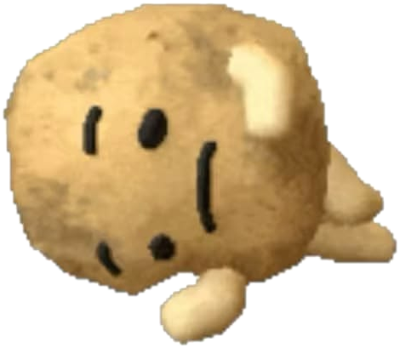
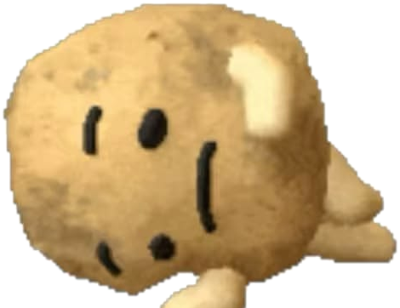
Potato rests on the roof, remove flyer, glowing neon sign, laugh category is photos only
Claude-Session: https://claude.ai/code/session_017PaBnN8AfWxPJyBcQfRLgQ

diff --git a/src/data/items.ts b/src/data/items.ts
@@ -24,7 +24,7 @@ export interface Item {
 
 export const CATEGORIES: Category[] = [
   { id: 'A', code: 'A01', label: 'A little reassurance', quip: 'Checking inventory of small comforts.', art: 'jar' },
-  { id: 'B', code: 'B02', label: 'Something to laugh at', quip: 'Humour is stocked on the second shelf.', art: 'frog' },
+  { id: 'B', code: 'B02', label: 'Something to laugh at', quip: 'Humour is stocked on the second shelf.', art: 'dumpling' },
   { id: 'C', code: 'C03', label: 'A reason to look forward to tomorrow', quip: 'Tomorrow has been notified.', art: 'ticket' },
   { id: 'D', code: 'D04', label: 'To feel understood', quip: 'I will do my best. I am a vending machine.', art: 'receipt' },
   { id: 'E', code: 'E05', label: 'A distraction', quip: 'Excellent. Something else to look at.', art: 'marble' },
@@ -39,14 +39,6 @@ export const ITEMS: Item[] = [
   { id: 'nightlight', cat: 'A', inv: '0871', name: 'Plug-In Night Light', message: 'Not a solution. Just something that stays on while you work it out.', description: 'Warm amber glow. Has never once asked how you are doing.' },
   { id: 'sock', cat: 'A', inv: '0159', name: 'One Warm Sock', message: 'Missing its pair, still doing its job. Take notes.', description: 'Lightly darned. Smells faintly of toast. Fits whichever foot needs it.' },
   { id: 'bandage', cat: 'A', inv: '0905', name: 'Emotional Plaster', message: "Doesn't fix anything. Does let everyone know you're working on it.", description: 'Extra sticky. Pattern: tiny dots, discreet but sincere.' },
-
-  // B — laugh
-  { id: 'frog', cat: 'B', inv: '0318', name: 'Miniature Ceramic Frog', message: 'I have reviewed the situation. You may proceed.', description: 'Glazed, serious, and wearing a monocle for reasons of its own.' },
-  { id: 'complaint', cat: 'B', inv: '0764', name: 'Pre-Filled Complaint Form', message: 'Dear universe: this was not what I ordered. Sincerely, everyone.', description: 'Already signed. Please submit to any available cosmic department.' },
-  { id: 'trophy', cat: 'B', inv: '0526', name: 'Trophy for Attending', message: 'That meeting could have been an email. You were there anyway. Honour.', description: 'Gold-ish. Engraved with the word "present", and nothing else.' },
-  { id: 'spoon', cat: 'B', inv: '0092', name: 'Slightly Haunted Spoon', message: "It's friendly. It just stirs things at odd hours.", description: 'Found in a drawer that wasn\'t there yesterday. Excellent with soup.' },
-  { id: 'duck', cat: 'B', inv: '0687', name: 'Rubber Duck, Consulting', message: 'Explain the problem to the duck. The duck has seen worse.', description: 'Available for debugging, overthinking and light bath-time advice.' },
-  { id: 'coupon', cat: 'B', inv: '0413', name: 'Expired Coupon for Free Advice', message: 'Expired in 1997. The advice remains valid: drink some water.', description: 'Not redeemable. The advice, however, is on the house.' },
 
   // B — photographs
   { id: 'sundress', cat: 'B', inv: '1001', name: 'Small Figure in a Sundress', message: 'Resigned. Presentable. Ready for whatever you are about to say.', description: 'Standing very still on a ledge, hoping this goes quickly.', image: '/memes/sundress-monkey.jpg' },

diff --git a/src/art/art.ts b/src/art/art.ts
@@ -67,45 +67,6 @@ export const ART: Record<string, string> = {
       D(12, 29, 1) + D(12, 35, 1) + D(52, 29, 1) + D(52, 35, 1),
   ),
 
-  // B
-  frog:
-    E(32, 44, 21, 13, G) + E(18, 55, 6, 3.5, G) + E(46, 55, 6, 3.5, G) +
-    E(32, 30, 17, 13, G) +
-    O(22, 19, 6.5, G) + O(42, 19, 6.5, G) + O(22, 19, 3.2, W) + O(42, 19, 3.2, W) + D(22, 19, 1.7) + D(42, 19, 1.7) +
-    O(42, 19, 5.2, 'none', 'stroke="#B8903A" stroke-width="1.4"') + L('M47 22 Q52 30 50 40', 'stroke="#B8903A" stroke-width="1"') +
-    L('M22 34 Q32 40 42 34') +
-    O(19, 30, 2.5, R, 'stroke="none"') + O(45, 30, 2.5, R, 'stroke="none"') +
-    L('M15 42 Q17 36 23 36', 'stroke="#fff" stroke-width="2" opacity=".6"'),
-  complaint:
-    Rt(13, 5, 38, 52, W, 3) +
-    L('M19 13 H41', 'stroke-width="3"') +
-    L('M19 20 H45 M19 25 H45', 'stroke-width="1.2" opacity=".55"') +
-    Rt(19, 31, 6, 6, 'none', 1) + L('M20 34 l2 2 l4 -5', `stroke="${B}"`) + L('M29 34 H45', 'stroke-width="1.2" opacity=".55"') +
-    Rt(19, 41, 6, 6, 'none', 1) + L('M20 44 l2 2 l4 -5', `stroke="${B}"`) + L('M29 44 H42', 'stroke-width="1.2" opacity=".55"') +
-    L('M19 53 q4 -6 8 0 t8 -2', `stroke="${B}" stroke-width="1.4"`),
-  trophy:
-    L('M20 13 Q7 12 10 25 Q12 31 21 31') + L('M44 13 Q57 12 54 25 Q52 31 43 31') +
-    P('M20 8 H44 V25 Q44 38 32 38 Q20 38 20 25Z', Y) +
-    Rt(29, 38, 6, 8, Y, 1) + Rt(21, 46, 22, 10, B, 2) +
-    P('M32 13 L34 19 L40 19 L35 23 L37 29 L32 25 L27 29 L29 23 L24 19 L30 19Z', C, 'stroke-width="1.2"'),
-  spoon:
-    L('M12 12 Q8 18 12 24 M52 10 Q56 16 52 22', `stroke="${G}" stroke-width="1.8"`) +
-    Rt(29, 34, 6, 24, '#D9D3C4', 3) + E(32, 20, 13, 16, '#D9D3C4') +
-    O(27, 17, 2.6, W) + O(37, 17, 2.6, W) + D(27, 17.5, 1.2) + D(37, 17.5, 1.2) +
-    E(32, 26, 2.4, 3, K, 'stroke="none"'),
-  duck:
-    waves(57) +
-    P('M10 41 Q4 36 10 33 Q14 36 15 41Z', Y) +
-    E(30, 44, 20, 12, Y) + O(42, 24, 11, Y) +
-    P('M51 22 H61 Q60 29 51 28Z', '#E8A25A') + D(45, 21, 1.7) +
-    P('M18 43 Q26 36 34 45 Q26 51 18 43Z', '#E8C768', 'stroke-width="1.5"'),
-  coupon: G_(
-    'rotate(-5 32 32)',
-    Rt(6, 14, 52, 34, Y, 3, 'stroke-dasharray="4 3"') + T(24, 33, 13, 'FREE') +
-      L('M11 40 H30 M11 20 H28', 'stroke-width="1.2" opacity=".5"') +
-      G_('rotate(-14 44 40)', Rt(30, 33, 27, 11, 'none', 2, `stroke="${B}" stroke-width="1.5"`) + T(43.5, 41.5, 7, 'EXPIRED', B)),
-  ),
-
   // C
   key: G_(
     'rotate(30 32 32)',

diff --git a/src/index.css b/src/index.css
@@ -216,9 +216,10 @@ body {
 .puddle { border-radius: 50%; background: radial-gradient(ellipse, rgba(255,250,240,.55), rgba(163,177,138,.25) 60%, transparent 72%); border-bottom: 2px solid rgba(64,59,54,.25); animation: shimmer 5s ease-in-out infinite; }
 .pigeon-walk { animation: pigeonwalk 26s linear infinite; }
 .pigeon-head { transform-box: fill-box; transform-origin: 30% 100%; animation: peck 1.4s ease-in-out infinite; }
-.neon { filter: brightness(var(--neon, 1)); box-shadow: 0 0 18px rgba(212,165,165,.55), inset 0 0 8px rgba(0,0,0,.6); }
-.neon-a { color: #F2D98D; text-shadow: 0 0 6px #F2D98D, 0 0 14px rgba(242,217,141,.7); animation: neon 6s ease-in-out infinite; }
-.neon-b { color: #D4A5A5; text-shadow: 0 0 6px #D4A5A5, 0 0 12px rgba(212,165,165,.7); }
+.neon { box-shadow: 0 0 22px rgba(242,217,141,.55), 0 0 48px rgba(212,165,165,.4), inset 0 0 10px rgba(0,0,0,.7); animation: neonhalo 5s ease-in-out infinite; }
+.neon-a { color: #FFF1B8; text-shadow: 0 0 3px #fff3c4, 0 0 9px #F2D98D, 0 0 20px #F2D98D, 0 0 38px rgba(242,217,141,.8); animation: neon 6s ease-in-out infinite; }
+.neon-b { color: #F4C4C4; text-shadow: 0 0 3px #ffd9d9, 0 0 8px #D4A5A5, 0 0 18px rgba(212,165,165,.9); }
+@keyframes neonhalo { 0%,100% { box-shadow: 0 0 22px rgba(242,217,141,.55), 0 0 48px rgba(212,165,165,.4), inset 0 0 10px rgba(0,0,0,.7) } 50% { box-shadow: 0 0 30px rgba(242,217,141,.75), 0 0 64px rgba(212,165,165,.55), inset 0 0 10px rgba(0,0,0,.7) } }
 @keyframes lampflick { 0%,100% { opacity: 1 } 40% { opacity: .88 } 42% { opacity: 1 } 75% { opacity: .92 } }
 @keyframes shimmer { 0%,100% { opacity: .8; transform: scaleX(1) } 50% { opacity: 1; transform: scaleX(1.04) } }
 @keyframes pigeonwalk { 0% { transform: translateX(0) scaleX(1) } 42% { transform: translateX(150px) scaleX(1) } 50% { transform: translateX(150px) scaleX(-1) } 92% { transform: translateX(0) scaleX(-1) } 100% { transform: translateX(0) scaleX(1) } }

diff --git a/src/components/Scenery.tsx b/src/components/Scenery.tsx
@@ -75,22 +75,6 @@ export const NeonSign = () => (
   </div>
 )
 
-export const TearFlyer = () => (
-  <div className="paper w-[118px] rotate-[3deg] border-2 border-charcoal pt-2 text-center shadow-md" aria-hidden>
-    <span className="mx-auto mb-1 block h-2.5 w-9 -rotate-2 bg-rose/80" />
-    <p className="font-display text-[15px] font-bold leading-none text-burgundy">FREE</p>
-    <p className="px-1 font-hand text-[19px] font-bold leading-[1] text-charcoal">strong feelings.</p>
-    <p className="font-hand text-[15px] leading-none text-charcoal/80">take one</p>
-    <div className="mt-2 flex h-[54px] border-t-2 border-dashed border-charcoal/60">
-      {[1, 1, 0, 1, 0, 1].map((on, i) => (
-        <span key={i} className={`flex-1 border-r border-dashed border-charcoal/40 text-center font-hand text-[11px] leading-none text-charcoal ${on ? '' : 'invisible'}`} style={{ writingMode: 'vertical-rl' }}>
-          take one
-        </span>
-      ))}
-    </div>
-  </div>
-)
-
 export const Pigeon = () => (
   <div className="pigeon-walk" aria-hidden>
     <svg viewBox="0 0 48 36" width="48" height="36" className="overflow-visible">

diff --git a/src/App.tsx b/src/App.tsx
@@ -11,7 +11,7 @@ import { CollectionShelf } from './components/CollectionShelf'
 import { MaintenanceLog } from './components/MaintenanceLog'
 import { ReceiptGenerator } from './components/ReceiptGenerator'
 import { HatchNote } from './components/HatchNote'
-import { NeonSign, Pigeon, TearFlyer, Topiary } from './components/Scenery'
+import { NeonSign, Pigeon, Topiary } from './components/Scenery'
 
 type Panel = 'shelf' | 'log' | 'hatch' | 'receipt' | null
 
@@ -96,7 +96,6 @@ export default function App() {
           <div style={{ ["--d" as string]: ".25s" }} className="rise relative mx-auto max-w-[580px]">
             <div className="sky-spill pointer-events-none absolute -inset-x-28 -inset-y-12" aria-hidden />
             <div className="absolute right-[calc(100%+30px)] top-[10px] hidden lg:block" aria-hidden><NeonSign /></div>
-            <div className="absolute right-[calc(100%+150px)] top-[110px] hidden xl:block" aria-hidden><TearFlyer /></div>
             <div className="absolute -right-[84px] bottom-0 hidden lg:block" aria-hidden>
               <Topiary />
             </div>

diff --git a/src/components/VendingMachine.tsx b/src/components/VendingMachine.tsx
@@ -207,11 +207,11 @@ export function VendingMachine({ owned, favs, reduced, birthday, onCollect, onTo
         ))}
       </button>
       <button
-        className="potato absolute -top-[47px] right-5 z-10 cursor-pointer md:right-8"
+        className="potato absolute -top-[52px] right-5 z-10 cursor-pointer md:right-8"
         aria-label="A potato, lying down"
         onClick={() => say('That is a potato.', 'It lives here now. Nobody discussed it.')}
       >
-        <img src="/potato.png" alt="" width="64" draggable={false} />
+        <img src="/potato.png" alt="" width="70" draggable={false} />
       </button>
       {birthday && <PartyHat className="absolute -top-[34px] right-[34%] z-10 rotate-6" />}
 
